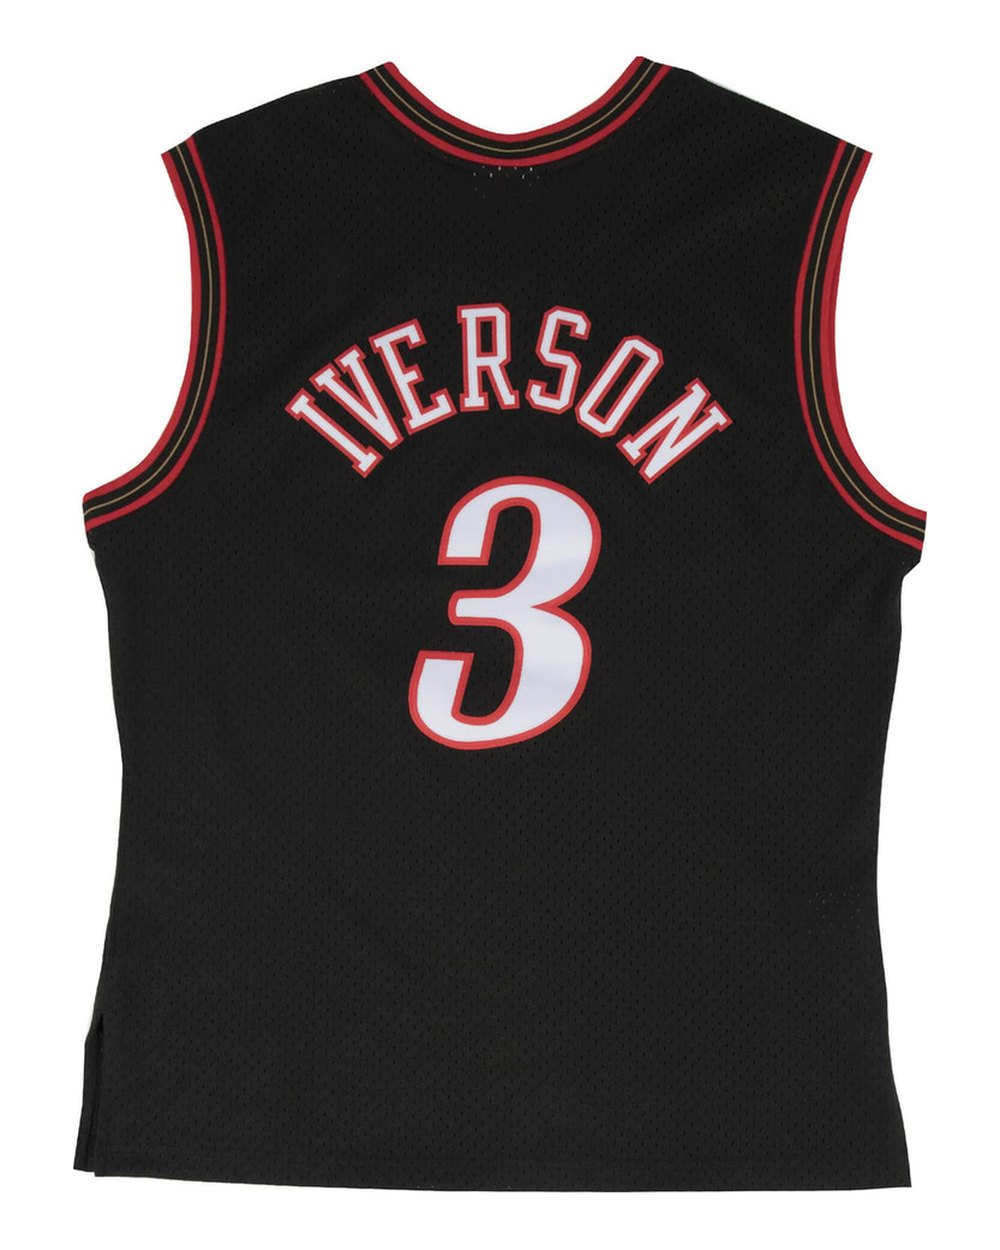
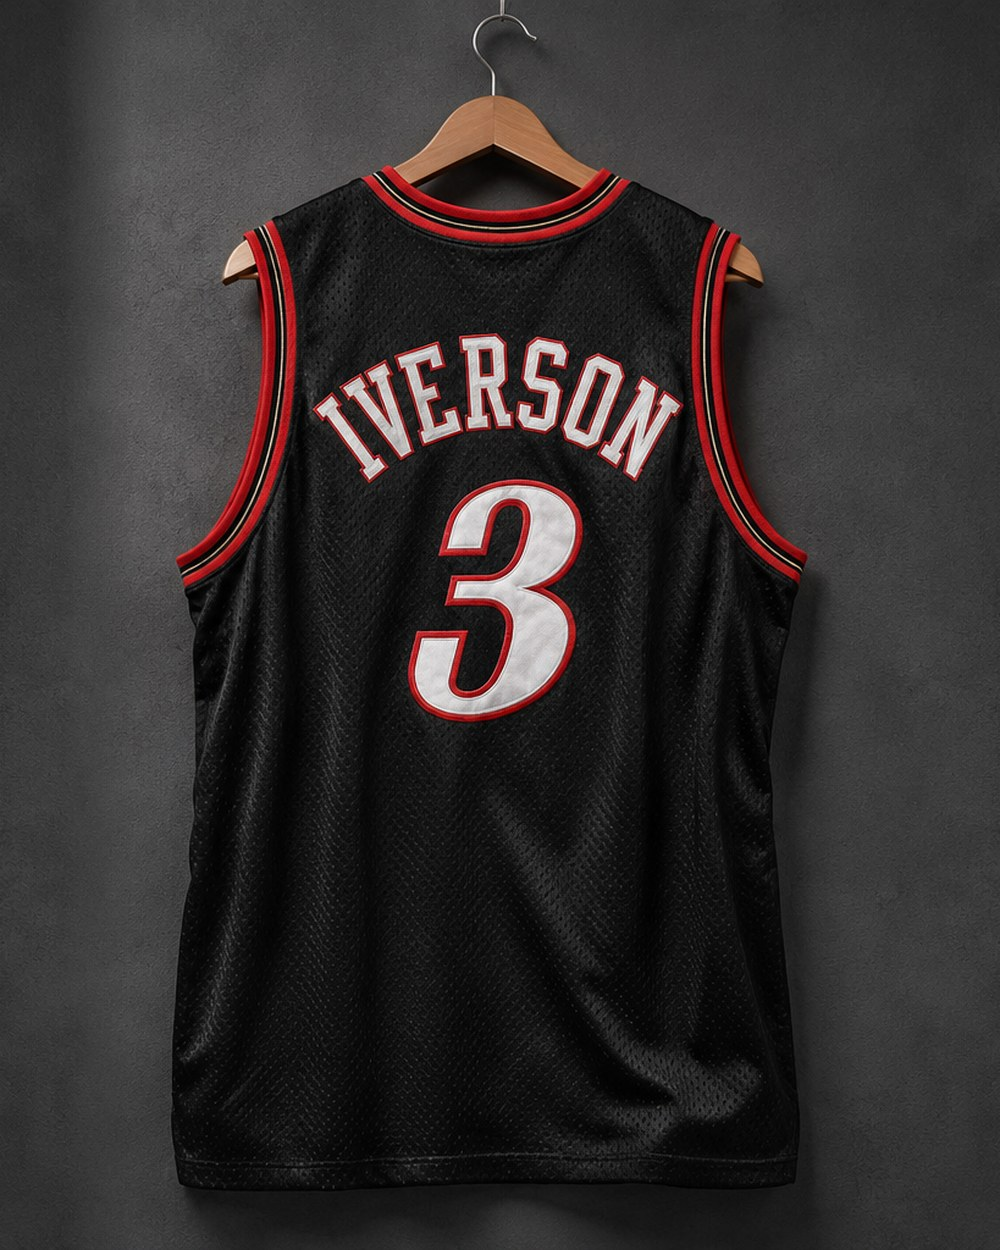
Add 10 jerseys and refresh the Sixers Iverson photos
New listings, each with front and back photos:
- Football: Real Madrid 2012/13 Away (Ronaldo 7), Real Madrid 1998-2000 Home,
  Paris Saint-Germain Home (Dembele 10), Inter Miami Home (Messi 10),
  West Germany 1990 Away
- Basketball: Spurs Wembanyama 1, Timberwolves Edwards 5 Classic Edition,
  Rockets Durant 7, Lakers Doncic 77, Raptors 1998/99 Carter 15 Road

The existing Philadelphia 76ers 2000/01 Iverson 3 listing gets new photos.
The starter catalogue is now 39 jerseys (19 football, 20 basketball).

diff --git a/prisma/seed.ts b/prisma/seed.ts
@@ -192,6 +192,63 @@ const products: Seed[] = [
       "Red and black stripes with curved gold piping, a polo collar and the star above the crest, with Kaká 22 in gold on the back.",
     images: photos("ac-milan-2006-kaka-22"),
   },
+  {
+    slug: "west-germany-1990-away-jersey",
+    name: "West Germany 1990 Away Jersey",
+    collection: "Retro",
+    sport: "FOOTBALL",
+    price: 9999,
+    sizes: FB,
+    description:
+      "The green away shirt from the summer West Germany won the World Cup. Bold green and white geometric print, a fold-over collar and white three-stripe shoulders.",
+    images: photos("germany-1990-away"),
+  },
+  {
+    slug: "real-madrid-1998-2000-home-jersey",
+    name: "Real Madrid 1998–2000 Home Jersey",
+    collection: "Retro",
+    sport: "FOOTBALL",
+    price: 10499,
+    sizes: FB,
+    description:
+      "White home shirt from the era of the club's eighth European Cup, with a navy fold-over collar trimmed in gold, navy three-stripe shoulders and a Champions League patch on the sleeve.",
+    images: photos("real-madrid-1998-home"),
+  },
+  {
+    slug: "paris-saint-germain-home-dembele-10",
+    name: "Paris Saint-Germain Home – Dembélé 10",
+    collection: "New",
+    sport: "FOOTBALL",
+    price: 10999,
+    sizes: FB,
+    description:
+      "Navy home shirt with the famous red centre stripe edged in white, red and white cuffs, and Dembélé 10 on the back.",
+    images: photos("psg-dembele-10"),
+  },
+  {
+    slug: "real-madrid-2012-13-away-ronaldo-7",
+    name: "Real Madrid 2012/13 Away – Ronaldo 7",
+    collection: "Classic",
+    sport: "FOOTBALL",
+    price: 11499,
+    sizes: FB,
+    featured: true,
+    description:
+      "Navy away shirt from 2012/13 with neon-yellow shoulder stripes and piping, the gold club crest, a league patch on the sleeve and Ronaldo 7 on the back.",
+    images: photos("real-madrid-2012-away-ronaldo-7"),
+  },
+  {
+    slug: "inter-miami-home-messi-10",
+    name: "Inter Miami Home – Messi 10",
+    collection: "New",
+    sport: "FOOTBALL",
+    price: 10999,
+    sizes: FB,
+    featured: true,
+    description:
+      "Pink home shirt with tonal stripes, a black collar, cuffs and shoulder stripes, the club crest and Messi 10 on the back.",
+    images: photos("inter-miami-messi-10"),
+  },
 
   // ───────────── Basketball ─────────────
   {
@@ -363,6 +420,62 @@ const products: Seed[] = [
     description:
       "Purple road jersey with the arched Toronto wordmark, black side panels with silver stripes and red piping, and Carter 15 on the back.",
     images: photos("raptors-carter-15-1999"),
+  },
+  {
+    slug: "toronto-raptors-1998-99-carter-15-road-jersey",
+    name: "Toronto Raptors 1998/99 Vince Carter 15 Road Jersey",
+    collection: "Retro",
+    sport: "BASKETBALL",
+    price: 10499,
+    sizes: BB,
+    description:
+      "Purple road jersey from Carter's rookie season, with jagged pinstripes, the red dinosaur logo, red and black trim and Carter 15 on the back.",
+    images: photos("raptors-carter-15-1998-road"),
+  },
+  {
+    slug: "minnesota-timberwolves-edwards-5-classic-edition-jersey",
+    name: "Minnesota Timberwolves Anthony Edwards 5 Classic Edition Jersey",
+    collection: "Metro",
+    sport: "BASKETBALL",
+    price: 10999,
+    sizes: BB,
+    description:
+      "Black throwback design with evergreen-tree trim around the collar and armholes, green tree panels down the sides, the Timberwolves wordmark and Edwards 5 on the back.",
+    images: photos("timberwolves-edwards-5"),
+  },
+  {
+    slug: "houston-rockets-durant-7-icon-jersey",
+    name: "Houston Rockets Kevin Durant 7 Icon Jersey",
+    collection: "New",
+    sport: "BASKETBALL",
+    price: 10999,
+    sizes: BB,
+    description: "Rockets red with black side panels and white piping, the Rockets wordmark across the chest and Durant 7 on the back.",
+    images: photos("rockets-durant-7"),
+  },
+  {
+    slug: "san-antonio-spurs-wembanyama-1-icon-jersey",
+    name: "San Antonio Spurs Victor Wembanyama 1 Icon Jersey",
+    collection: "New",
+    sport: "BASKETBALL",
+    price: 10999,
+    sizes: BB,
+    featured: true,
+    description:
+      "Black Spurs jersey with silver and white side panels, the spur wordmark across the chest and Wembanyama 1 on the back.",
+    images: photos("spurs-wembanyama-1"),
+  },
+  {
+    slug: "los-angeles-lakers-doncic-77-icon-jersey",
+    name: "Los Angeles Lakers Luka Dončić 77 Icon Jersey",
+    collection: "New",
+    sport: "BASKETBALL",
+    price: 10999,
+    sizes: BB,
+    featured: true,
+    description:
+      "Lakers gold with purple side panels and white trim, the Lakers script across the chest and Dončić 77 on the back.",
+    images: photos("lakers-doncic-77"),
   },
 ];
 

diff --git a/README.md b/README.md
@@ -33,7 +33,7 @@ obis-xi-vault/
 ├─ Start Store.bat            ← double-click to run the site on Windows
 ├─ prisma/
 │  ├─ schema.prisma           ← database tables (products, orders, admins)
-│  └─ seed.ts                 ← 29 starter jerseys (14 football, 15 basketball)
+│  └─ seed.ts                 ← 39 starter jerseys (19 football, 20 basketball)
 ├─ scripts/
 │  ├─ setup.mjs               ← first-time setup
 │  └─ create-admin.ts         ← create an admin or reset a password
